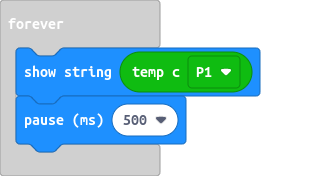
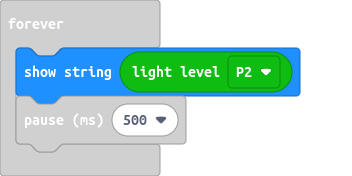
Update pxt.json, main.blocks, main.ts

diff --git a/main.ts b/main.ts
@@ -1,5 +1,5 @@
 basic.clearScreen()
 basic.forever(function () {
-    basic.showString("" + (Sensor.tempC(AnalogPin.P1)))
+    basic.showString("" + (Sensor.lightLevel(AnalogPin.P2)))
     basic.pause(500)
 })
